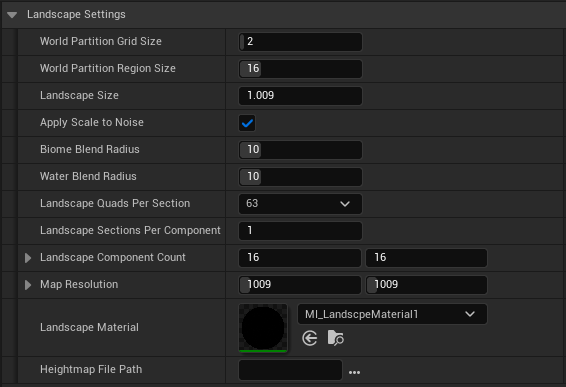
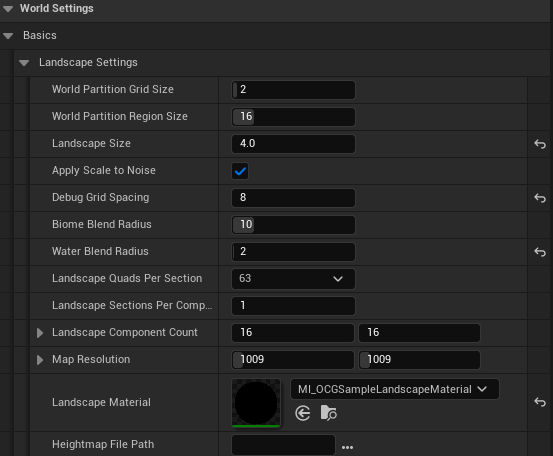
Update landscape settings documentation and image

diff --git a/docs/map_preset/world_settings.md b/docs/map_preset/world_settings.md
@@ -23,6 +23,7 @@ This page details the properties available in the World Settings section of the 
 | World Partition Region Size      | The number of landscape components per World Partition region, along each axis                                                                                                                                                                               |
 | Landscape Size                   | Defines the horizontal size of the Landscape (in kilometers), it changes Landscape Size by Formular (XScale = Landscape Size * 1000 * 100 / Map Resolution.)                                                                                                       |
 | Apply Scale To Noise             | If enabled, changing Landscape Scale regenerates the landscape's features. If disabled, it only stretches or shrinks the Landscape, preserving its shape.                                                                                                    |
+| Debug Grid Spacing               | Defines the grid spacing of debug lines shown when Preview Maps button is clicked.                                                                                                    |
 | Biome Blend Radius               | Defines the radius of the transition zone between adjacent biomes. This value controls the distance over which one biome's influence fades into the next, preventing abrupt changes. A value of 0 will disable blending, creating hard edges.                                                                                                                       |
 | Water Blend Radius               | This property does same actions as Biome Blend Radius but only decides trasition between water biome and other biomes.                                                                                                                 |
 | Landscape Quads Per Section      | The number of quads in a single landscape section. One section is the unit of LOD transition for landscape rendering.                                                                                   |

diff --git a/docs/map_preset/editor.md b/docs/map_preset/editor.md
@@ -19,7 +19,7 @@ MapPreset에셋은 Content Drawer에서 우클릭 > OCG > MapPreset 선택하여
 
 ![mapPresetEditor]({{ site.baseurl }}/assets/images/map_preset/map_preset_editor/mapPresetEditor.png)
 
-- PreviewMap 버튼을 클릭하면, HeightMap File Path에 있는 .png 기반으로 생성될 Landscape를 초록색 선으로 미리 보여줍니다. 만약에 HeightMap File Path가 없을 경우, 현재 Seed 값 기반으로 생성될 Landscape를 초록색 선으로 미리 보여줍니다.
+- Preview Maps 버튼을 클릭하면, HeightMap File Path에 있는 .png 기반으로 생성될 Landscape를 초록색 선으로 미리 보여주고 프로젝트 하위에 Contetns/Maps 폴더에 HeightMap을 비롯한 다른 맵들을 png 파일로 저장합니다. 만약에 HeightMap File Path가 없을 경우, 현재 Seed 값 기반으로 생성될 Landscape를 초록색 선으로 미리 보여줍니다.
 - Generate 버튼을 클릭하면 에디터의 뷰포트에 MapPreset 에셋을 기반으로 한 레벨이 생성됩니다.
 - Export to Level 버튼을 클릭하면, 현재 뷰포트의 레벨을 실제 .umap 파일로 내보냅니다.
   - 내보낸 레벨은 레벨 스트리밍을 지원하지 않지만, 해당 레벨을 열고 상단의 Tools > Convert Level을 통해 레벨 스트리밍을 지원하는 레벨로 컨버트 할 수 있습니다.
